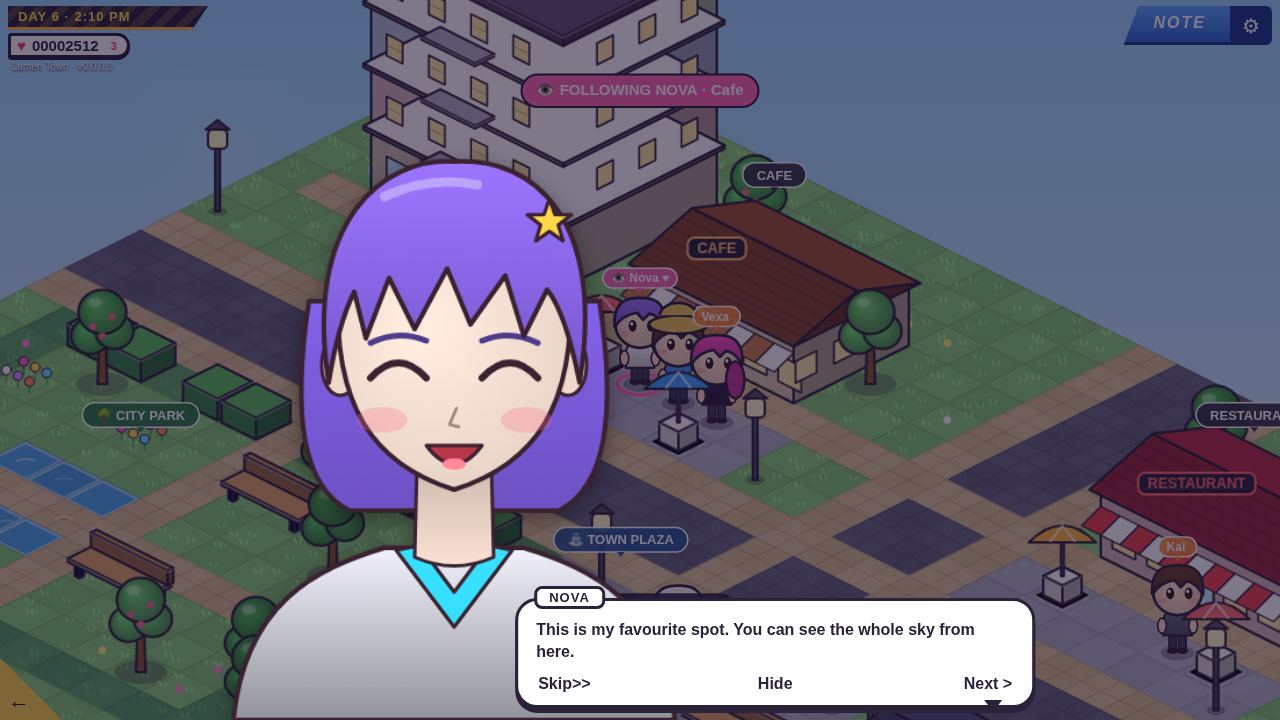
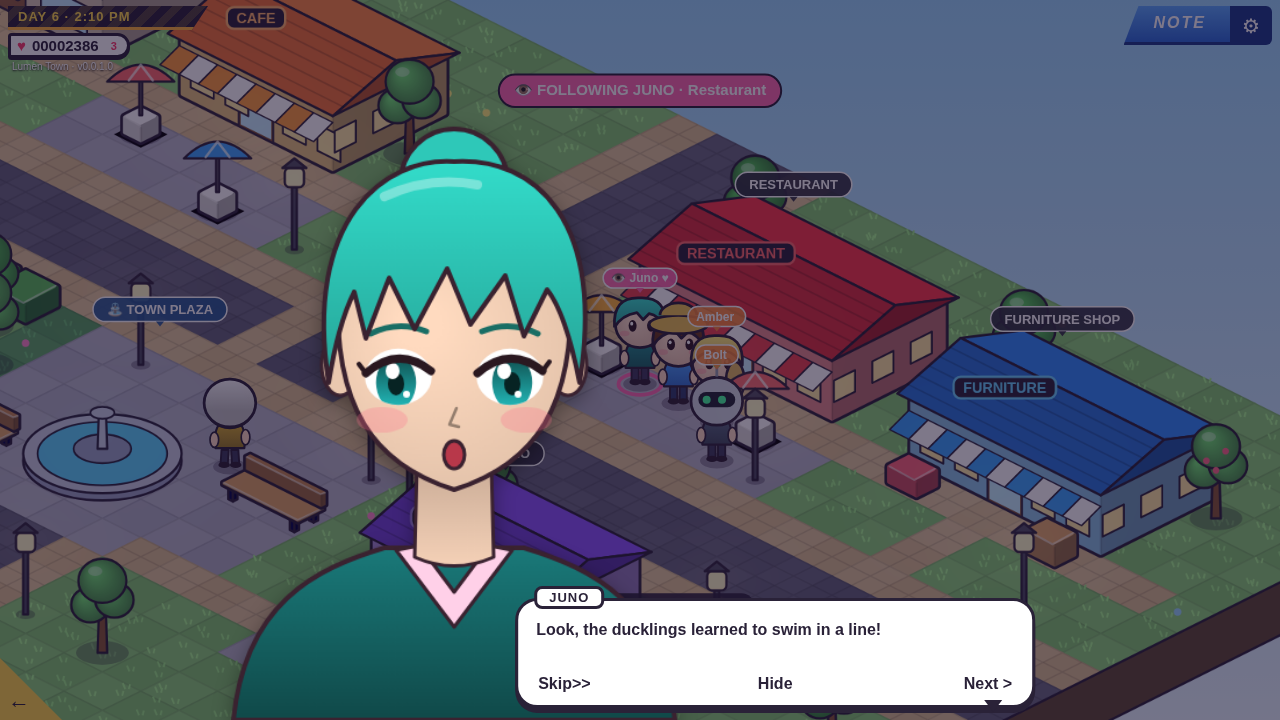
Fantasy Town v0.0.1.0: crisp rounded-corner iso renderer, 3x sprites, rounded pillows, brighter town

diff --git a/iso.js b/iso.js
@@ -1,13 +1,25 @@
 'use strict';
 // Isometric renderer helpers: 2:1 diamonds, outlined shaded boxes, cached sprites
-const TW=32,TH=16,RS=2,OLC='#2a2238';
+const TW=32,TH=16,RS=3,OLC='#2a2238';
 const isoP=(x,y,z=0)=>[(x-y)*TW/2,(x+y)*TH/2-z];
 function poly(c,pts,fill,ol=OLC,lw=1){c.beginPath();pts.forEach((p,i)=>i?c.lineTo(p[0],p[1]):c.moveTo(p[0],p[1]));c.closePath();if(fill){c.fillStyle=fill;c.fill();}if(ol){c.lineWidth=lw;c.strokeStyle=ol;c.stroke();}}
-// box in local tile coords at origin (x0,y0,z0) size w,d,h(px)
+// rounded polygon path (arcTo corners)
+function rpath(c,pts,r){const n=pts.length;c.beginPath();const m=(p,q)=>[(p[0]+q[0])/2,(p[1]+q[1])/2];const s0=m(pts[n-1],pts[0]);c.moveTo(s0[0],s0[1]);for(let i=0;i<n;i++){const p=pts[i],q=pts[(i+1)%n];const rr=Array.isArray(r)?r[i]:r;c.arcTo(p[0],p[1],q[0],q[1],rr);}c.closePath();}
+// SOFT box: rounded silhouette, 3-tone cel shading with gentle gradients, rim highlight, single dark outline
 function box(c,x0,y0,z0,w,d,h,col,o={}){const P=(x,y,z)=>isoP(x0+x,y0+y,z0+z);
- const top=o.top||shade(col,1.12),L=o.left||shade(col,.86),R=o.right||shade(col,.7),ol=o.ol===undefined?OLC:o.ol;
- poly(c,[P(0,d,0),P(w,d,0),P(w,d,h),P(0,d,h)],L,ol);poly(c,[P(w,0,0),P(w,d,0),P(w,d,h),P(w,0,h)],R,ol);poly(c,[P(0,0,h),P(w,0,h),P(w,d,h),P(0,d,h)],top,ol);
- if(o.hl!==false){c.beginPath();const a=P(0,d,h),b=P(w,d,h),e=P(w,0,h);c.moveTo(a[0],a[1]+.5);c.lineTo(b[0],b[1]+.5);c.lineTo(e[0],e[1]+.5);c.strokeStyle='rgba(255,255,255,.35)';c.lineWidth=.8;c.stroke();}}
+ const top=o.top||shade(col,1.12),L=o.left||shade(col,.88),R=o.right||shade(col,.72),ol=o.ol===undefined?OLC:o.ol;
+ const sw=Math.min(w,d)*14,r=o.r!=null?o.r:Math.max(0,Math.min(1.5,sw*.2,h*.25));
+ const T0=P(0,0,h),T1=P(w,0,h),T2=P(w,d,h),T3=P(0,d,h),B1=P(w,0,0),B2=P(w,d,0),B3=P(0,d,0);
+ if(r<.35||h<.6){poly(c,[B3,B2,T2,T3],L,ol);poly(c,[B1,B2,T2,T1],R,ol);poly(c,[T0,T1,T2,T3],top,ol);return;}
+ const sil=[T0,T1,B1,B2,B3,T3];c.save();rpath(c,sil,[r*.8,r,r*.9,r*.9,r*.9,r]);c.save();c.clip();
+ const gl=c.createLinearGradient(0,T3[1],0,B3[1]);const sol=typeof L=='string'&&L[0]=='#';if(sol){gl.addColorStop(0,shade(L,1.06));gl.addColorStop(1,shade(L,.9));}c.fillStyle=L;c.fillRect(B3[0]-60,T0[1]-60,(B1[0]-B3[0])+120,(B2[1]-T0[1])+120);
+ c.beginPath();c.moveTo(T2[0],T2[1]-1);c.lineTo(T1[0],T1[1]-1);c.lineTo(B1[0]+40,B1[1]);c.lineTo(B2[0],B2[1]+40);c.closePath();const gr=c.createLinearGradient(T2[0],0,B1[0],0);const sor=typeof R=='string'&&R[0]=='#';if(sor){gr.addColorStop(0,shade(R,1.08));gr.addColorStop(1,shade(R,.88));}c.fillStyle=R;c.fill();
+ rpath(c,[T0,T1,T2,T3],r*.9);const gt=c.createLinearGradient(T0[0],T0[1],T2[0],T2[1]);const sot=typeof top=='string'&&top[0]=='#';if(sot){gt.addColorStop(0,shade(top,1.08));gt.addColorStop(1,shade(top,.97));}c.fillStyle=top;c.fill();
+ if(o.hl!==false){c.beginPath();c.moveTo(T3[0]+r,T3[1]+r*.5);c.lineTo(T2[0]-r*.6,T2[1]);c.lineTo(T1[0]-r,T1[1]-r*.5+.6);c.strokeStyle='rgba(255,255,255,.5)';c.lineWidth=.8;c.stroke();
+  c.beginPath();c.moveTo(T2[0],T2[1]+r);c.lineTo(B2[0],B2[1]-r);c.strokeStyle='rgba(0,0,0,.12)';c.lineWidth=.9;c.stroke();
+}
+ c.restore();if(ol){rpath(c,sil,[r*.8,r,r*.9,r*.9,r*.9,r]);c.lineWidth=1.15;c.strokeStyle=ol;c.lineJoin='round';c.stroke();}c.restore();}
+function boxHard(c,x0,y0,z0,w,d,h,col,o={}){box(c,x0,y0,z0,w,d,h,col,{...o,r:0});}
 // rect on a box face: face 'L' (+y side, u along x) or 'R' (+x side, u along y). u,v in px-ish tile fractions; z in px
 function faceQ(c,x0,y0,z0,w,d,face,u0,u1,z1,z2,fill,ol=OLC){const P=face=='L'?(u,z)=>isoP(x0+u,y0+d,z0+z):(u,z)=>isoP(x0+w,y0+u,z0+z);poly(c,[P(u0,z1),P(u1,z1),P(u1,z2),P(u0,z2)],fill,ol,.8);}
 function roof(c,x0,y0,z0,w,d,rh,col){const P=(x,y,z)=>isoP(x0+x,y0+y,z0+z),ov=.15;

diff --git a/town.js b/town.js
@@ -7,10 +7,10 @@ function shopFront(c,w,d,h,wall,roofCol,awn,txt,signCol,winCol='#ffe6a0'){box(c,
  const P=(x,y,z)=>isoP(x,y,z),n=Math.round(w*2);for(let i=0;i<n;i++){const x0=i*w/n,x1=(i+1)*w/n;poly(c,[P(x0,d,21),P(x1,d,21),P(x1,d+.5,17),P(x0,d+.5,17)],i%2?'#ffffff':awn,OLC,.6);}
  roof(c,0,0,h,w,d,10,roofCol);sign3(c,P(w/2,d,h+18),txt,signCol);}
 Object.assign(OBJ,{
- cafe:{w:4,d:3,h:62,draw(c){shopFront(c,4,3,26,'#f6e2c4','#8a4a2a','#c87a4a','CAFE','#ffb46a');},light:[[2,3.4,12,60,'#ffb46a']]},
- restaurant:{w:5,d:3,h:66,draw(c){shopFront(c,5,3,28,'#f4d0d0','#a02a3a','#e8404a','RESTAURANT','#ff6a6a');},light:[[2.5,3.4,12,70,'#ff6a6a']]},
- fshop:{w:5,d:3,h:66,draw(c){shopFront(c,5,3,28,'#d8ecf8','#2a5a9a','#38a0ff','FURNITURE','#6ad0ff');box(c,.3,3.3,0,.8,.6,8,'#e85a6a');box(c,3.9,3.3,0,.8,.6,10,'#c8945a');},light:[[2.5,3.4,12,70,'#6ad0ff']]},
- studio:{w:4,d:3,h:70,draw(c){shopFront(c,4,3,34,'#c8c8dc','#4a4a6a','#9a7aff','STUDIO','#b49aff','#d8f0ff');},light:[[2,3.4,12,60,'#b49aff']]},
+ cafe:{w:4,d:3,h:62,draw(c){shopFront(c,4,3,26,'#ffd88a','#ff7a3a','#ff9a3a','CAFE','#ffb46a');},light:[[2,3.4,12,60,'#ffb46a']]},
+ restaurant:{w:5,d:3,h:66,draw(c){shopFront(c,5,3,28,'#ff9a9a','#e8323f','#e8404a','RESTAURANT','#ff6a6a');},light:[[2.5,3.4,12,70,'#ff6a6a']]},
+ fshop:{w:5,d:3,h:66,draw(c){shopFront(c,5,3,28,'#9ad8ff','#2a7ae8','#38a0ff','FURNITURE','#6ad0ff');box(c,.3,3.3,0,.8,.6,8,'#e85a6a');box(c,3.9,3.3,0,.8,.6,10,'#c8945a');},light:[[2.5,3.4,12,70,'#6ad0ff']]},
+ studio:{w:4,d:3,h:70,draw(c){shopFront(c,4,3,34,'#c8a8ff','#7a4ae8','#9a7aff','STUDIO','#b49aff','#d8f0ff');},light:[[2,3.4,12,60,'#b49aff']]},
  bench:{w:2,d:1,h:16,draw(c){[[.2,.3],[1.8,.3],[.2,.8],[1.8,.8]].forEach(([a,b])=>box(c,a-.06,b-.06,0,.12,.12,5,'#555',{hl:false}));box(c,0,.2,5,2,.7,1.5,'#c8945a');box(c,0,.15,6.5,2,.15,6,'#b07a48');}},
  parasol:{w:1,d:1,h:34,draw(c,v){box(c,.15,.15,0,.7,.7,0,'#000',{ol:null});const [x,y]=P0(.5,.5);shadowE(c,x,y,9,4.5);box(c,.25,.25,0,.5,.5,8,'#f4f4f4');poly(c,[[x-.6,y-8],[x+.6,y-8],[x+.6,y-26],[x-.6,y-26]],'#888');
   const col=['#ff6a6a','#38a0ff','#ffb43a'][v%3];c.beginPath();c.moveTo(x-14,y-22);c.quadraticCurveTo(x,y-36,x+14,y-22);c.closePath();c.fillStyle=col;c.fill();c.strokeStyle=OLC;c.stroke();c.beginPath();c.moveTo(x,y-29);c.lineTo(x-5,y-22.5);c.moveTo(x,y-29);c.lineTo(x+5,y-22.5);c.strokeStyle='rgba(255,255,255,.7)';c.stroke();}},

diff --git a/game.js b/game.js
@@ -1,6 +1,6 @@
 'use strict';
 // Fantasy Town v0.0.0.8 — small-town condo life sim (family-friendly)
-const VERSION='v0.0.0.9',SAVE='fantasytown_save_v9';
+const VERSION='v0.0.1.0',SAVE='fantasytown_save_v9';
 const cv=document.getElementById('c'),ctx=cv.getContext('2d'),menuEl=document.getElementById('menu');
 const Q=new URLSearchParams(location.search),$=id=>document.getElementById(id);
 const G=0,ROAD=1,WATER=2,CONC=5,PATH=14,DARKG=15,FL1=20,FL2=21,FL3=22;
@@ -379,7 +379,7 @@ function tenantAtScreen(sx,sy){let best=null,bd=1e9;tenantsHere().forEach(t=>{co
 function drawScene(t,night){const a=area,W=cv.width,H=cv.height;
  const fit=a.room?Math.min(W/((a.cols+a.rows)*TW/2+40),(H-90)/((a.cols+a.rows)*TH/2+66)):0;Z=a.room?Math.max(1.15,Math.min(2.4,fit)):Math.max(1.5,Math.min(3.2,H/(isTouch?220:300)));
  let fx=ptx(),fy=pty();const ft=follow&&TN[follow];if(ft&&!a.room&&!ft.inRoom){fx=ft.px;fy=ft.py;}
- const [px,py]=isoP(fx,fy);let tx2=px,ty2=py-10;if(a.room&&fit>=1.15){const [mx,my]=isoP(a.cols/2,a.rows/2);tx2=mx;ty2=my-26;}
+ const [px,py]=isoP(fx,fy);let tx2=px,ty2=py-10;if(a.room&&fit>=1.15){const [mx,my]=isoP(a.cols/2,a.rows/2);tx2=mx;ty2=my-26;}if(window.ZOOM){Z=window.ZOOM;const [mx,my]=isoP(...window.CAMT);tx2=mx;ty2=my;camSnap=1;}
  if(camSnap){cam.x=tx2;cam.y=ty2;camSnap=0;}else{cam.x+=(tx2-cam.x)*.12;cam.y+=(ty2-cam.y)*.12;}
  const sky=ctx.createLinearGradient(0,0,0,H);if(a.room){sky.addColorStop(0,'#3a2c4a');sky.addColorStop(1,'#6a4a6a');}else{sky.addColorStop(0,night>.5?'#141432':'#9ad8ff');sky.addColorStop(1,night>.5?'#2a1a4a':'#e8f6ff');}
  ctx.setTransform(1,0,0,1,0,0);ctx.fillStyle=sky;ctx.fillRect(0,0,W,H);

diff --git a/furniture.js b/furniture.js
@@ -7,7 +7,7 @@ const ZONES={living:'Living Room',kitchen:'Kitchen',bedroom:'Bedroom',bath:'Bath
 const REQ={toilet:'Toilet',bed:'Bed',stove:'Stove',fridge:'Fridge'};
 const W_=c=>c;const Pz=(x,y,z)=>isoP(x,y,z);
 function legs(c,x,y,w,d,h,col,t=.07){[[x,y],[x+w-t,y],[x,y+d-t],[x+w-t,y+d-t]].forEach(([a,b])=>box(c,a,b,0,t,t,h,col,{hl:false}));}
-function pillow(c,x,y,z,col,r=3.2){const [a,b]=Pz(x,y,z);ell(c,a,b-1.5,r*1.25,r*.8,col,OLC,.6);ell(c,a-1,b-2.4,r*.5,r*.25,'rgba(255,255,255,.55)',null);}
+function pillow(c,x,y,z,col,r=3.2){const [a,b]=Pz(x,y,z);const w=r*2.3,h=r*1.5;c.beginPath();c.roundRect(a-w/2,b-h-1,w,h,1.6);c.fillStyle=col;c.fill();c.lineWidth=.8;c.strokeStyle=OLC;c.stroke();c.fillStyle=shade(col,.85);c.fillRect(a-w/2+1,b-2.2,w-2,1);c.fillStyle='rgba(255,255,255,.7)';c.fillRect(a-w/2+1.5,b-h+.2,w*.45,.9);}
 function cush(c,x,y,z,w,d,h,col){box(c,x,y,z,w,d,h,col);const [a,b]=Pz(x+w/2,y+d/2,z+h);ell(c,a,b,w*6,d*2.6,'rgba(255,255,255,.18)',null);}
 function bookRow(c,x0,y0,z0,w,d,u0,u1,z,hgt=5,face='L'){const cols=['#e85a6a','#5a8aff','#ffd84a','#3dbf6a','#9a6aff','#ff9a3a','#f4f4f4'];let i=0;for(let u=u0;u<u1-.05;u+=.07+((i*7)%3)*.015){faceQ(c,x0,y0,z0,w,d,face,u,u+.06,z,z+hgt-((i*5)%3),cols[(i*3)%7],'rgba(0,0,0,.35)');i++;}}
 function plantTop(c,x,y,z,s=1,col='#3faa4a'){const [a,b]=Pz(x,y,z);[[-4,-5,.3],[4,-7,-.3],[0,-11,0],[-3,-9,.5],[3,-3,-.6],[-5,-2,.8]].forEach(([dx,dy,r])=>{c.beginPath();c.ellipse(a+dx*s,b+dy*s,2.6*s,5*s,r,0,7);c.fillStyle=shade(col,1+dx*.02);c.fill();c.strokeStyle=OLC;c.lineWidth=.6;c.stroke();c.beginPath();c.moveTo(a,b);c.lineTo(a+dx*s*.8,b+dy*s*.8);c.strokeStyle=shade(col,.7);c.stroke();});}

diff --git a/index.html b/index.html
@@ -2,7 +2,7 @@
 <html lang="en"><head><meta charset="utf-8">
 <meta name="viewport" content="width=device-width,initial-scale=1,maximum-scale=1,user-scalable=no,viewport-fit=cover">
 <meta name="mobile-web-app-capable" content="yes"><meta name="apple-mobile-web-app-capable" content="yes"><meta name="theme-color" content="#2a2238">
-<title>Fantasy Town v0.0.0.9</title>
+<title>Fantasy Town v0.0.1.0</title>
 <style>
 *{box-sizing:border-box}
 html,body{margin:0;height:100%;background:#2a2238;overflow:hidden;touch-action:none;font-family:"Trebuchet MS",Verdana,sans-serif;color:#2a2238;-webkit-user-select:none;user-select:none}

diff --git a/test.py b/test.py
@@ -48,6 +48,10 @@ async def main():
     print('happiness',h0,'->',await pg.evaluate("FT.happiness(FT.S.condo.tenants[0])"),'rent',await pg.evaluate("FT.rentOf(0)"))
     await pg.evaluate("FT.setTime(7.5);FT.setPos(9,10)");await pg.wait_for_timeout(700)
     await pg.screenshot(path='screenshot-apartment.png')
+    await pg.evaluate("document.querySelectorAll('#top,#talk,#tcard').forEach(e=>e.style.visibility='hidden')")
+    await pg.screenshot(path='/tmp/full.png')
+    await pg.evaluate("window.ZOOM=3.2;window.CAMT=[6,5]");await pg.wait_for_timeout(300);await pg.screenshot(path='screenshot-furniture-closeup.png');await pg.evaluate("window.ZOOM=0")
+    await pg.evaluate("document.querySelectorAll('#top,#talk,#tcard').forEach(e=>e.style.visibility='')")
     await pg.evaluate("FT.enterRoom('office');FT.setPos(7,8)");await pg.wait_for_timeout(500);await pg.screenshot(path='screenshot-office.png')
     await pg.evaluate("FT.goArea('town',[30,7]);FT.act(30,4)");await pg.wait_for_timeout(300);await pg.screenshot(path='/tmp/shop.png');await pg.evaluate("closeMenu();FT.enterRoom('f1')")
     await pg.evaluate("FT.decor=true;FT.fsel=0;FT.ghost=[8,9]");await pg.wait_for_timeout(300);await pg.screenshot(path='/tmp/decor.png');await pg.evaluate("FT.decor=false")

diff --git a/README.md b/README.md
@@ -1,4 +1,4 @@
-# Fantasy Town v0.0.0.9
+# Fantasy Town v0.0.1.0
 Family-friendly isometric condo-manager life sim set in the small town of Lumen Town. Plain HTML5 canvas, no build step: open index.html.
 
 ## Town
@@ -12,7 +12,7 @@ Fantasy Condo, City Park (pond, benches), Town Plaza (fountain, Mayor Lumen), Ca
 - Schedules: home in the morning, work (Studio/Cafe/Restaurant/Furniture Shop) or hangouts (park/plaza/cafe) by day, lunch at cafe/restaurant, evening hangout, home at 8 PM. They walk the streets between places.
 - Tap a tenant → card with FOLLOW (camera tracks them), TALK, HANG OUT. Talking (+1/day) and hanging out (+3/day) raise friendship; each level unlocks one of 3 friendship scenes per tenant.
 
-## Apartments (v0.0.0.9)
+## Apartments (v0.0.1.0)
 - Each tenant unit is an 18×12 apartment split by interior walls/doorways into Kitchen, Bedroom, Bathroom and Living Room (bright Habbo-style walls, white tile / wood floors).
 - A unit can only be rented with a Toilet, Bed, Stove and Fridge. Furniture must go in the right room (toilet in bathroom, stove in kitchen...). Wall decor goes on tiles touching the back walls.
 - 60+ furniture items in 5 themes (Modern, Cozy Wood, Neon Gamer, Beach, Luxury) plus gym/safety props; tenants like 2 themes and one favourite item. Completing each room's kit (e.g. kitchen: stove, fridge, sink, counter, dining) adds happiness.
